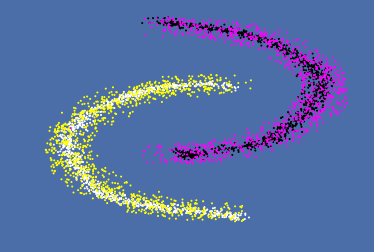
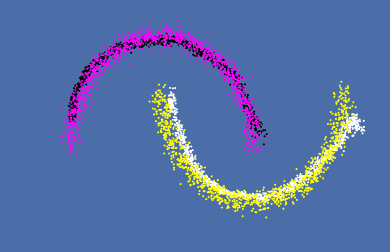
add IGAN action

Changed region(s): [[0.1176, 0.0556, 0.9412, 0.8889]]

diff --git a/Slides/GAN/index.html b/Slides/GAN/index.html
@@ -237,7 +237,7 @@ Contrary to standard loss minimization, we have no guarantee here that the netwo
 <img src="GAN_action.gif" width="80%" />
 ]
 
-A GAN fitting a double moon.
+A GAN fitting double moons.
 
 ---
 
@@ -291,6 +291,15 @@ Even when labels are not available, mode collapse can be mitigated (more details
 
 .footnote[Chen et al. [InfoGAN: Interpretable Representation Learning by Information Maximizing Generative Adversarial Nets](https://arxiv.org/abs/1606.03657). 2016.]
 
+---
+
+#IGAN in action
+
+.center[
+<img src="IGAN_action.gif" width="80%" />
+]
+
+An InfoGAN fitting double moons.
 
 ---
 
